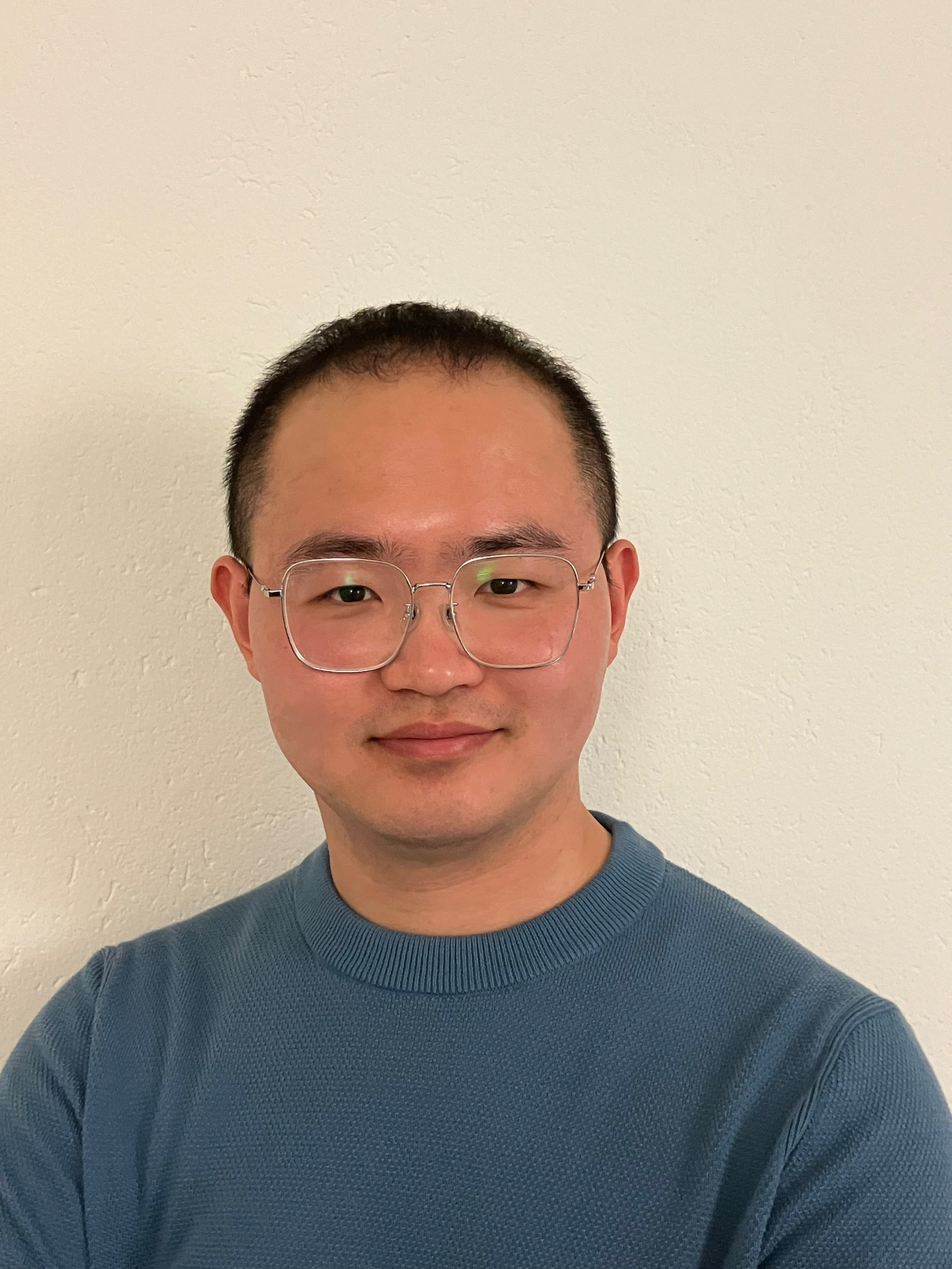
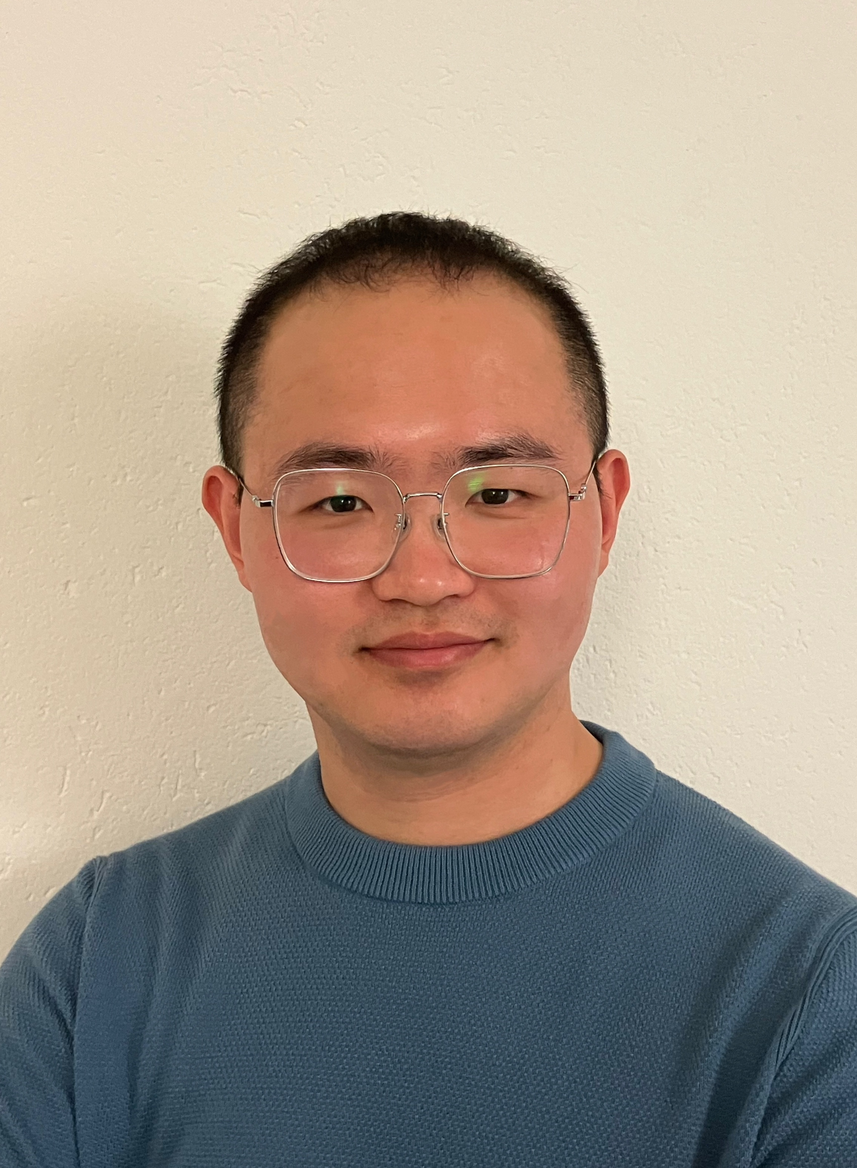
a new version of the website

diff --git a/post/2020-12-01-r-rmarkdown/index.html b/post/2020-12-01-r-rmarkdown/index.html
@@ -1,6 +1,6 @@
 <!DOCTYPE html>
 <!-- This site was created with Wowchemy. https://www.wowchemy.com -->
-<!-- Last Published: August 17, 2024 --><html lang="en-us" >
+<!-- Last Published: August 19, 2024 --><html lang="en-us" >
 
 
 <head>
@@ -992,7 +992,7 @@ Figure 1: A fancy pie chart.
   <div class="media author-card content-widget-hr">
     
       
-      <a href="https://gjiang-economics.github.io/"><img class="avatar mr-3 avatar-circle" src="/authors/admin/avatar_hu0d6b33ccb6645a5f8929878c56cd5338_1040973_270x270_fill_q75_lanczos_center.jpeg" alt="Guohui Jiang"></a>
+      <a href="https://gjiang-economics.github.io/"><img class="avatar mr-3 avatar-circle" src="/authors/admin/avatar_hub5d2e22aed061a3f548c8f9a1b188593_1681492_270x270_fill_q75_lanczos_center.jpeg" alt="Guohui Jiang"></a>
     
 
     <div class="media-body">

diff --git a/post/getting-started/index.html b/post/getting-started/index.html
@@ -1,6 +1,6 @@
 <!DOCTYPE html>
 <!-- This site was created with Wowchemy. https://www.wowchemy.com -->
-<!-- Last Published: August 17, 2024 --><html lang="en-us" >
+<!-- Last Published: August 19, 2024 --><html lang="en-us" >
 
 
 <head>
@@ -1049,7 +1049,7 @@
   <div class="media author-card content-widget-hr">
     
       
-      <a href="https://gjiang-economics.github.io/"><img class="avatar mr-3 avatar-circle" src="/authors/admin/avatar_hu0d6b33ccb6645a5f8929878c56cd5338_1040973_270x270_fill_q75_lanczos_center.jpeg" alt="Guohui Jiang"></a>
+      <a href="https://gjiang-economics.github.io/"><img class="avatar mr-3 avatar-circle" src="/authors/admin/avatar_hub5d2e22aed061a3f548c8f9a1b188593_1681492_270x270_fill_q75_lanczos_center.jpeg" alt="Guohui Jiang"></a>
     
 
     <div class="media-body">

diff --git a/project/example/index.html b/project/example/index.html
@@ -1,6 +1,6 @@
 <!DOCTYPE html>
 <!-- This site was created with Wowchemy. https://www.wowchemy.com -->
-<!-- Last Published: August 17, 2024 --><html lang="en-us" >
+<!-- Last Published: August 19, 2024 --><html lang="en-us" >
 
 
 <head>
@@ -1008,7 +1008,7 @@
   <div class="media author-card content-widget-hr">
     
       
-      <a href="https://gjiang-economics.github.io/"><img class="avatar mr-3 avatar-circle" src="/authors/admin/avatar_hu0d6b33ccb6645a5f8929878c56cd5338_1040973_270x270_fill_q75_lanczos_center.jpeg" alt="Guohui Jiang"></a>
+      <a href="https://gjiang-economics.github.io/"><img class="avatar mr-3 avatar-circle" src="/authors/admin/avatar_hub5d2e22aed061a3f548c8f9a1b188593_1681492_270x270_fill_q75_lanczos_center.jpeg" alt="Guohui Jiang"></a>
     
 
     <div class="media-body">

diff --git a/publication/example/index.html b/publication/example/index.html
@@ -1,6 +1,6 @@
 <!DOCTYPE html>
 <!-- This site was created with Wowchemy. https://www.wowchemy.com -->
-<!-- Last Published: August 17, 2024 --><html lang="en-us" >
+<!-- Last Published: August 19, 2024 --><html lang="en-us" >
 
 
 <head>
@@ -1068,7 +1068,7 @@
   <div class="media author-card content-widget-hr">
     
       
-      <a href="https://gjiang-economics.github.io/"><img class="avatar mr-3 avatar-circle" src="/authors/admin/avatar_hu0d6b33ccb6645a5f8929878c56cd5338_1040973_270x270_fill_q75_lanczos_center.jpeg" alt="Guohui Jiang"></a>
+      <a href="https://gjiang-economics.github.io/"><img class="avatar mr-3 avatar-circle" src="/authors/admin/avatar_hub5d2e22aed061a3f548c8f9a1b188593_1681492_270x270_fill_q75_lanczos_center.jpeg" alt="Guohui Jiang"></a>
     
 
     <div class="media-body">

diff --git a/talk/example-talk/index.html b/talk/example-talk/index.html
@@ -1,6 +1,6 @@
 <!DOCTYPE html>
 <!-- This site was created with Wowchemy. https://www.wowchemy.com -->
-<!-- Last Published: August 17, 2024 --><html lang="en-us" >
+<!-- Last Published: August 19, 2024 --><html lang="en-us" >
 
 
 <head>
@@ -1068,7 +1068,7 @@
   <div class="media author-card content-widget-hr">
     
       
-      <a href="https://gjiang-economics.github.io/"><img class="avatar mr-3 avatar-circle" src="/authors/admin/avatar_hu0d6b33ccb6645a5f8929878c56cd5338_1040973_270x270_fill_q75_lanczos_center.jpeg" alt="Guohui Jiang"></a>
+      <a href="https://gjiang-economics.github.io/"><img class="avatar mr-3 avatar-circle" src="/authors/admin/avatar_hub5d2e22aed061a3f548c8f9a1b188593_1681492_270x270_fill_q75_lanczos_center.jpeg" alt="Guohui Jiang"></a>
     
 
     <div class="media-body">

diff --git a/index.html b/index.html
@@ -1,6 +1,6 @@
 <!DOCTYPE html>
 <!-- This site was created with Wowchemy. https://www.wowchemy.com -->
-<!-- Last Published: August 17, 2024 --><html lang="en-us" >
+<!-- Last Published: August 19, 2024 --><html lang="en-us" >
 
 
 <head>
@@ -824,7 +824,7 @@
       
       <img class="avatar avatar-circle"
            width="270" height="270"
-           src="/authors/admin/avatar_hu0d6b33ccb6645a5f8929878c56cd5338_1040973_270x270_fill_q75_lanczos_center.jpeg" alt="Guohui Jiang">
+           src="/authors/admin/avatar_hub5d2e22aed061a3f548c8f9a1b188593_1681492_270x270_fill_q75_lanczos_center.jpeg" alt="Guohui Jiang">
       
 
       <div class="portrait-title">

diff --git a/404.html b/404.html
@@ -1,6 +1,6 @@
 <!DOCTYPE html>
 <!-- This site was created with Wowchemy. https://www.wowchemy.com -->
-<!-- Last Published: August 17, 2024 --><html lang="en-us" >
+<!-- Last Published: August 19, 2024 --><html lang="en-us" >
 
 
 <head>

diff --git a/categories/index.html b/categories/index.html
@@ -1,6 +1,6 @@
 <!DOCTYPE html>
 <!-- This site was created with Wowchemy. https://www.wowchemy.com -->
-<!-- Last Published: August 17, 2024 --><html lang="en-us" >
+<!-- Last Published: August 19, 2024 --><html lang="en-us" >
 
 
 <head>

diff --git a/category/demo/index.html b/category/demo/index.html
@@ -1,6 +1,6 @@
 <!DOCTYPE html>
 <!-- This site was created with Wowchemy. https://www.wowchemy.com -->
-<!-- Last Published: August 17, 2024 --><html lang="en-us" >
+<!-- Last Published: August 19, 2024 --><html lang="en-us" >
 
 
 <head>

diff --git a/category/r/index.html b/category/r/index.html
@@ -1,6 +1,6 @@
 <!DOCTYPE html>
 <!-- This site was created with Wowchemy. https://www.wowchemy.com -->
-<!-- Last Published: August 17, 2024 --><html lang="en-us" >
+<!-- Last Published: August 19, 2024 --><html lang="en-us" >
 
 
 <head>

diff --git a/category/教程/index.html b/category/教程/index.html
@@ -1,6 +1,6 @@
 <!DOCTYPE html>
 <!-- This site was created with Wowchemy. https://www.wowchemy.com -->
-<!-- Last Published: August 17, 2024 --><html lang="en-us" >
+<!-- Last Published: August 19, 2024 --><html lang="en-us" >
 
 
 <head>

diff --git a/event/index.html b/event/index.html
@@ -1,6 +1,6 @@
 <!DOCTYPE html>
 <!-- This site was created with Wowchemy. https://www.wowchemy.com -->
-<!-- Last Published: August 17, 2024 --><html lang="en-us" >
+<!-- Last Published: August 19, 2024 --><html lang="en-us" >
 
 
 <head>
